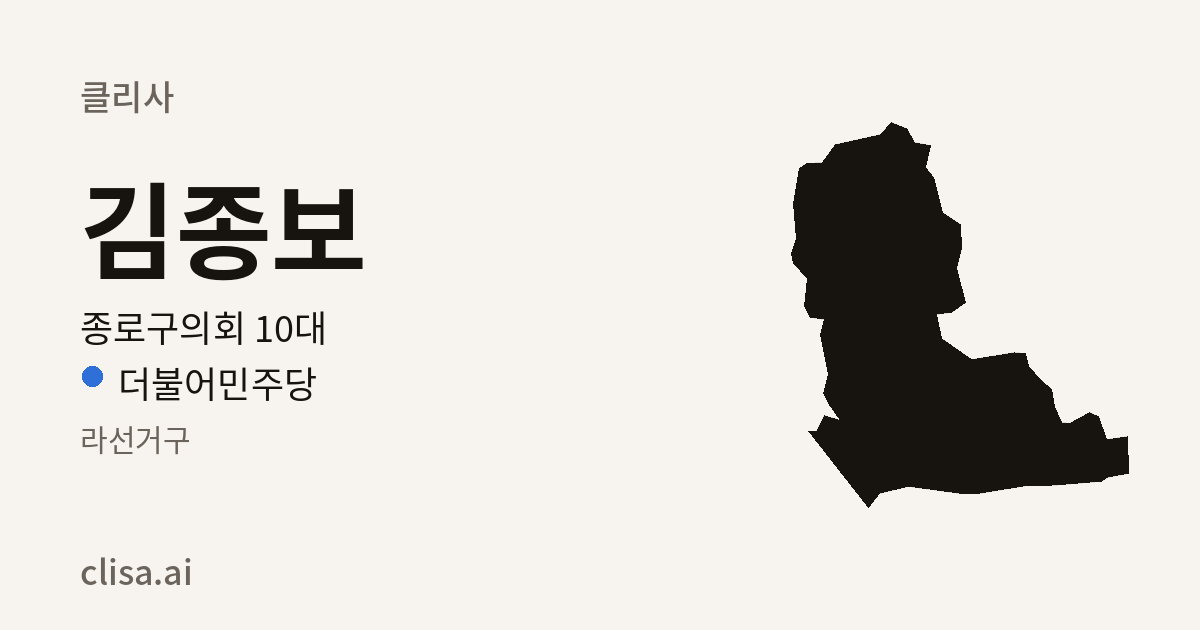
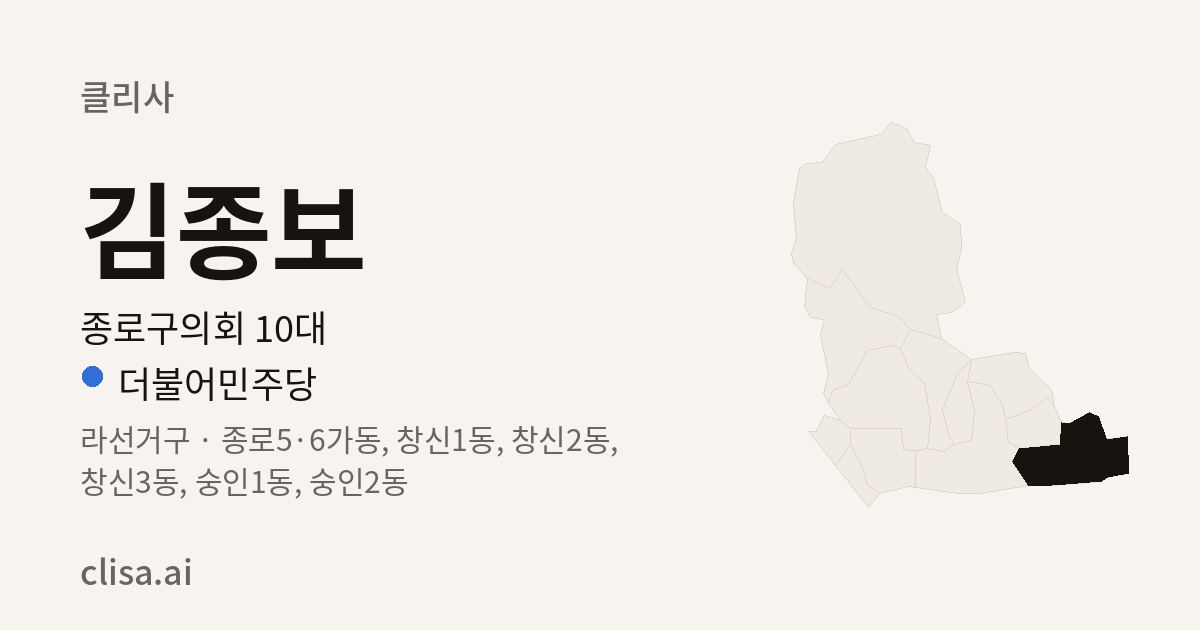
patch 62 m: jongno share pages

Changed region(s): [[0.6475, 0.181, 0.8942, 0.8143], [0.0617, 0.6635, 0.5242, 0.7841]]

diff --git a/m/jongno10-91630d.html b/m/jongno10-91630d.html
@@ -1,3 +1,3 @@
 <!doctype html><html lang="ko"><head><meta charset="utf-8"><title>유양순 · 종로구의회 10대 | 클리사</title><meta name="viewport" content="width=device-width,initial-scale=1"><meta name="robots" content="noindex"><link rel="icon" href="/icon.svg" type="image/svg+xml"><link rel="canonical" href="https://clisa.ai/#jongno10-91630d">
-<meta property="og:type" content="profile"><meta property="og:site_name" content="클리사"><meta property="og:url" content="https://clisa.ai/m/jongno10-91630d.html"><meta property="og:title" content="유양순 · 종로구의회 10대"><meta property="og:description" content="더불어민주당 · . 우리 동네 구의원·시의원이 어떤 일을 하고 있는지 확인하는 곳."><meta property="og:image" content="https://clisa.ai/m/jongno10-91630d.png"><meta property="og:image:width" content="1200"><meta property="og:image:height" content="630"><meta name="twitter:card" content="summary_large_image"><meta name="twitter:title" content="유양순 · 종로구의회 10대"><meta name="twitter:image" content="https://clisa.ai/m/jongno10-91630d.png">
+<meta property="og:type" content="profile"><meta property="og:site_name" content="클리사"><meta property="og:url" content="https://clisa.ai/m/jongno10-91630d.html"><meta property="og:title" content="유양순 · 종로구의회 10대"><meta property="og:description" content="더불어민주당 · 라선거구. 우리 동네 구의원·시의원이 어떤 일을 하고 있는지 확인하는 곳."><meta property="og:image" content="https://clisa.ai/m/jongno10-91630d.png"><meta property="og:image:width" content="1200"><meta property="og:image:height" content="630"><meta name="twitter:card" content="summary_large_image"><meta name="twitter:title" content="유양순 · 종로구의회 10대"><meta name="twitter:image" content="https://clisa.ai/m/jongno10-91630d.png">
 <meta http-equiv="refresh" content="0;url=/#jongno10-91630d"><script>location.replace("/#jongno10-91630d")</script></head><body style="background:#F7F4EF;color:#17130F;font-family:sans-serif;padding:24px"><a href="/#jongno10-91630d" style="color:inherit">유양순 의원의 기록 보기</a></body></html>
